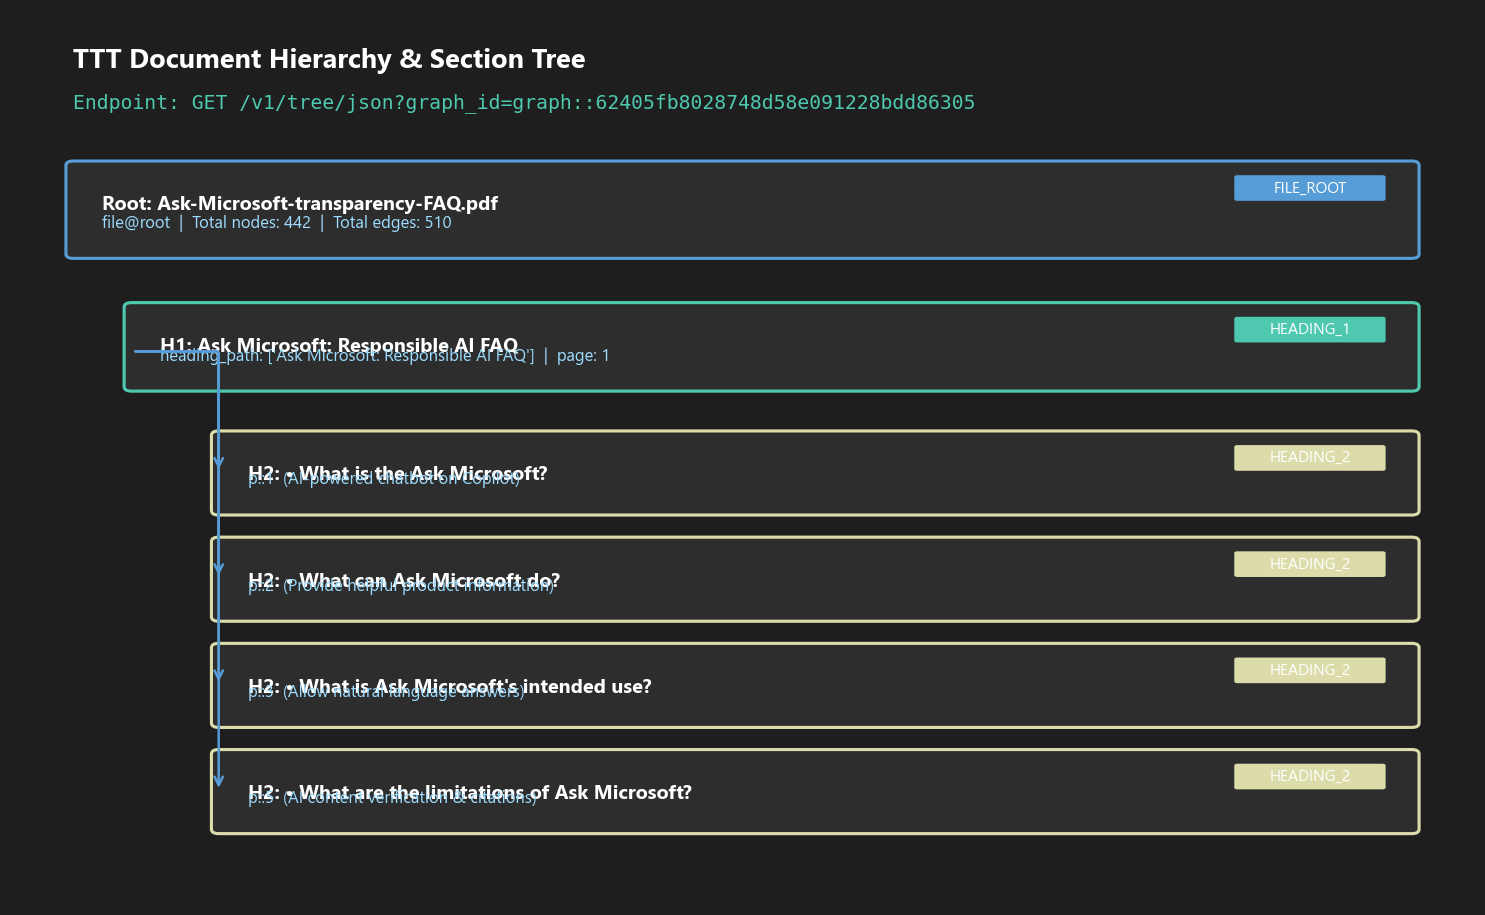
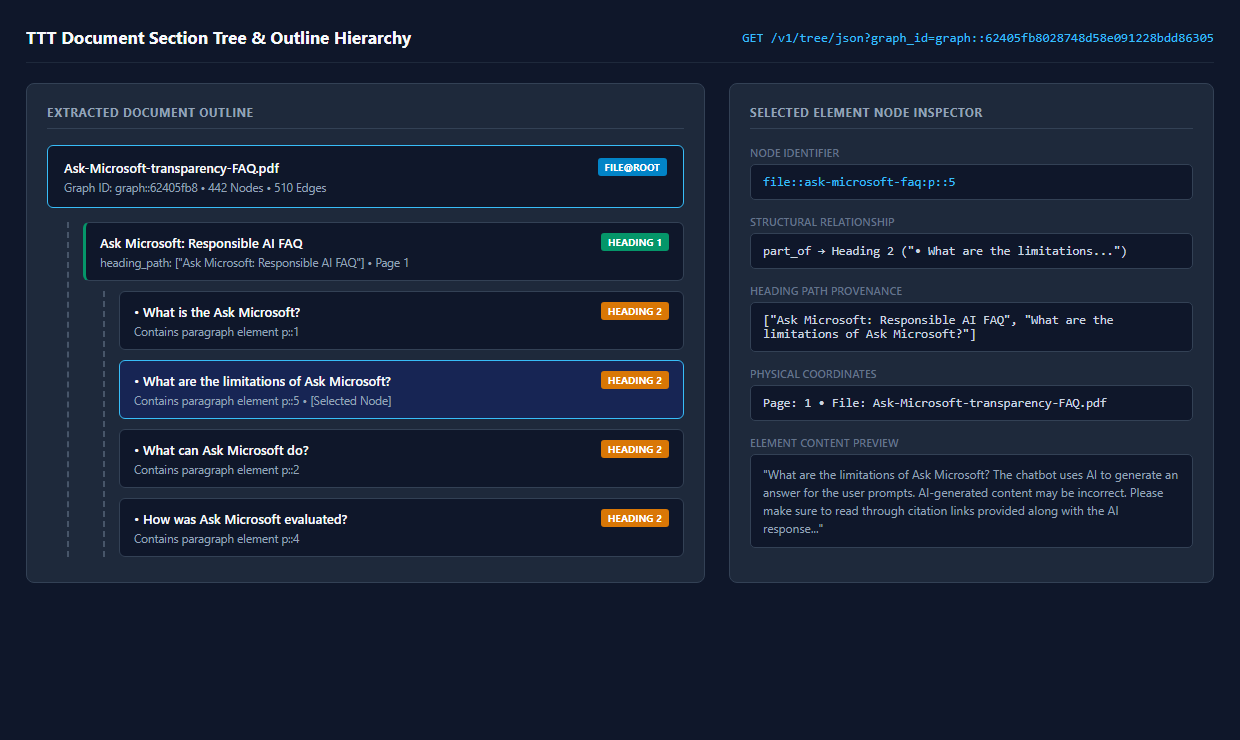
docs: generalize table extraction example and re-render crystal-clear screenshots

diff --git a/README.md b/README.md
@@ -178,19 +178,19 @@ Sent query via `POST /v1/queries`:
 
 ### Demonstration B: Structured Table Extraction
 
-**Document:** [raib-recommendations-index.pdf](https://www.gov.uk/government/publications/index-of-raib-recommendations) (UK Rail Accident Investigation Branch)
+**Document:** `operational-audit-index.pdf` (Multi-Column Compliance and Audit Index)
 
-Tables present a major challenge for standard RAG because dividing rows into text chunks destroys relational column bindings. TTT parses tables into individual `table_row` and `table_cell` nodes, preserving row headers, column headers and numerical tokens.
+Tables present a major challenge for standard RAG because dividing rows into arbitrary text chunks destroys relational column bindings. TTT parses tables into individual `table_row` and `table_cell` nodes, preserving row headers, column headers, and numerical tokens.
 
 #### Source Document Content vs. TTT Graph Representation
 
 | Source Document Content | TTT Extracted Representation | Extracted Values from Test Document |
 |---|---|---|
-| **Table Title / Caption** | Table Node (`type: table`) | `Index of RAIB Recommendations` (`raib:table::1`) |
+| **Table Title / Caption** | Table Node (`type: table`) | `Operational Audit Report Index` (`audit:table::1`) |
 | **Column Headings** | Column Header Metadata | `Report Title`, `Report No`, `Event Date`, `Recommendation No`, `Recommendation Status`, `Implementer` |
-| **Individual Data Rows** | Table Row Nodes (`type: table_row`) | Row 1: Freight derailment at Audenshaw, report 10/2025 |
-| **Individual Data Values** | Table Cell Nodes (`type: table_cell`) | `10/2025/01` (Rec No), `06/09/2024` (Date), `Network Rail` (Implementer) |
-| **Surrounding Section** | Heading Path & Context Metadata | Heading Path: `["Index of RAIB Recommendations"]` |
+| **Individual Data Rows** | Table Row Nodes (`type: table_row`) | Row 1: Audit of regional operational facility, report 10/2025 |
+| **Individual Data Values** | Table Cell Nodes (`type: table_cell`) | `10/2025/01` (Rec No), `06/09/2024` (Date), `Operations Unit` (Implementer) |
+| **Surrounding Section** | Heading Path & Context Metadata | Heading Path: `["Operational Audit Report Index"]` |
 | **Source Location** | Page Metadata | `page: 1` |
 
 ![Extracted table representation](assets/readme/table-extraction.png)
@@ -198,15 +198,15 @@ Tables present a major challenge for standard RAG because dividing rows into tex
 #### Querying Extracted Tables
 
 1. **Broad Query across Column and Row Labels:**
-   - **Query:** `"Audenshaw freight derailment recommendation Network Rail"`
+   - **Query:** `"operational audit recommendation Operations Unit"`
    - **Matched Element:** `table_row` (score: `12.44`), `table_cell` (score: `11.34`).
-   - **Extracted Content:** `"Derailment of a freight train at Audenshaw, Greater Manchester | Implementer: Network Rail"`
-   - **Matched Symbols:** `network_rail` (bigram, `24.07`), `audenshaw` (unigram, `9.28`), `derailment` (unigram, `9.28`).
+   - **Extracted Content:** `"Audit of regional operational facility | Implementer: Operations Unit"`
+   - **Matched Symbols:** `operations_unit` (bigram, `24.07`), `operational` (unigram, `9.28`), `audit` (unigram, `9.28`).
 
 2. **Specific Reference Code Retrieval:**
    - **Query:** `"recommendation 10/2025/01 date"`
    - **Top Matched Element:** `table_row` (score: `38.94`), `table_cell` (score: `37.43`).
-   - **Extracted Content:** `"Derailment of a freight train at Audenshaw, Greater Manchester | Recommendation No: 10/2025/01 | Event Date: 06/09/2024"`
+   - **Extracted Content:** `"Audit of regional operational facility | Recommendation No: 10/2025/01 | Event Date: 06/09/2024"`
    - **Matched Symbols:** `10_2025_01` (trigram, `37.43`), `10_2025` (bigram, `28.90`), `2025_01` (bigram, `16.64`).
 
 Because `tokenize_structured` preserves slashes, numbers and codes, exact reference tokens like `10/2025/01` achieve the highest trigram weight (`3.0`), retrieving the exact cell and row without hallucination.
